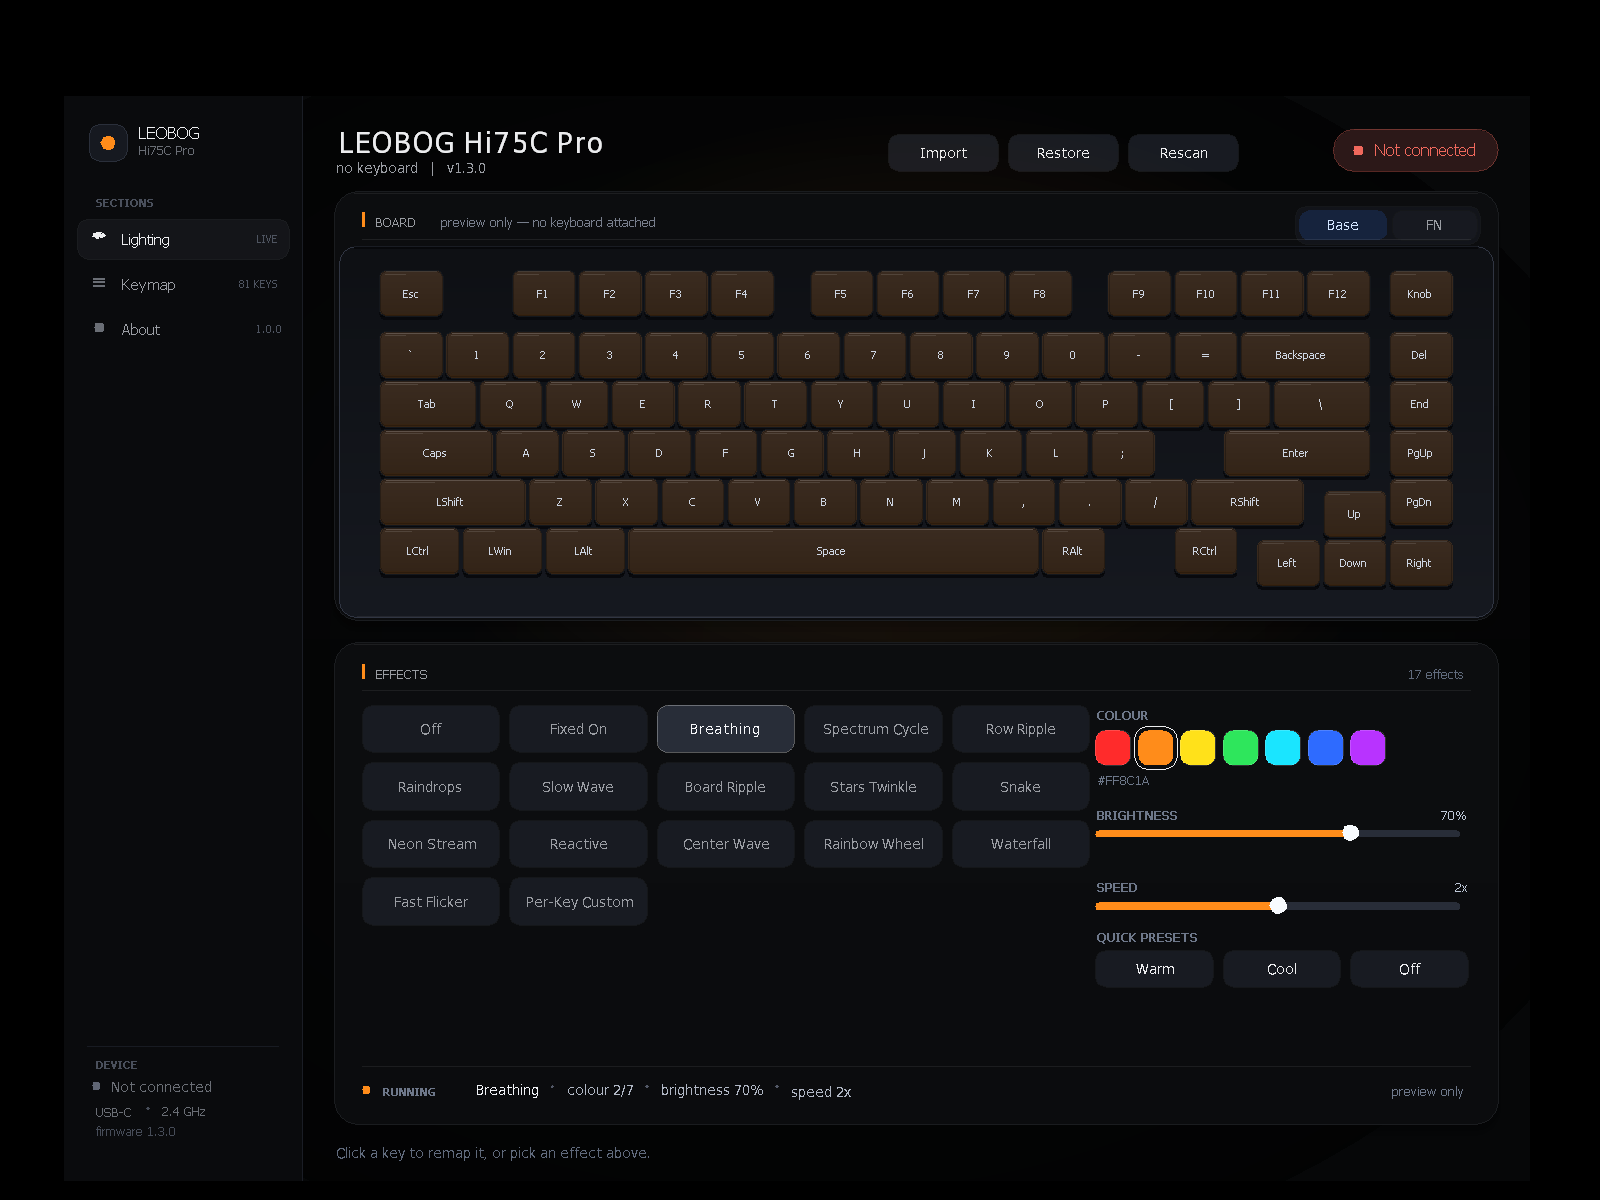
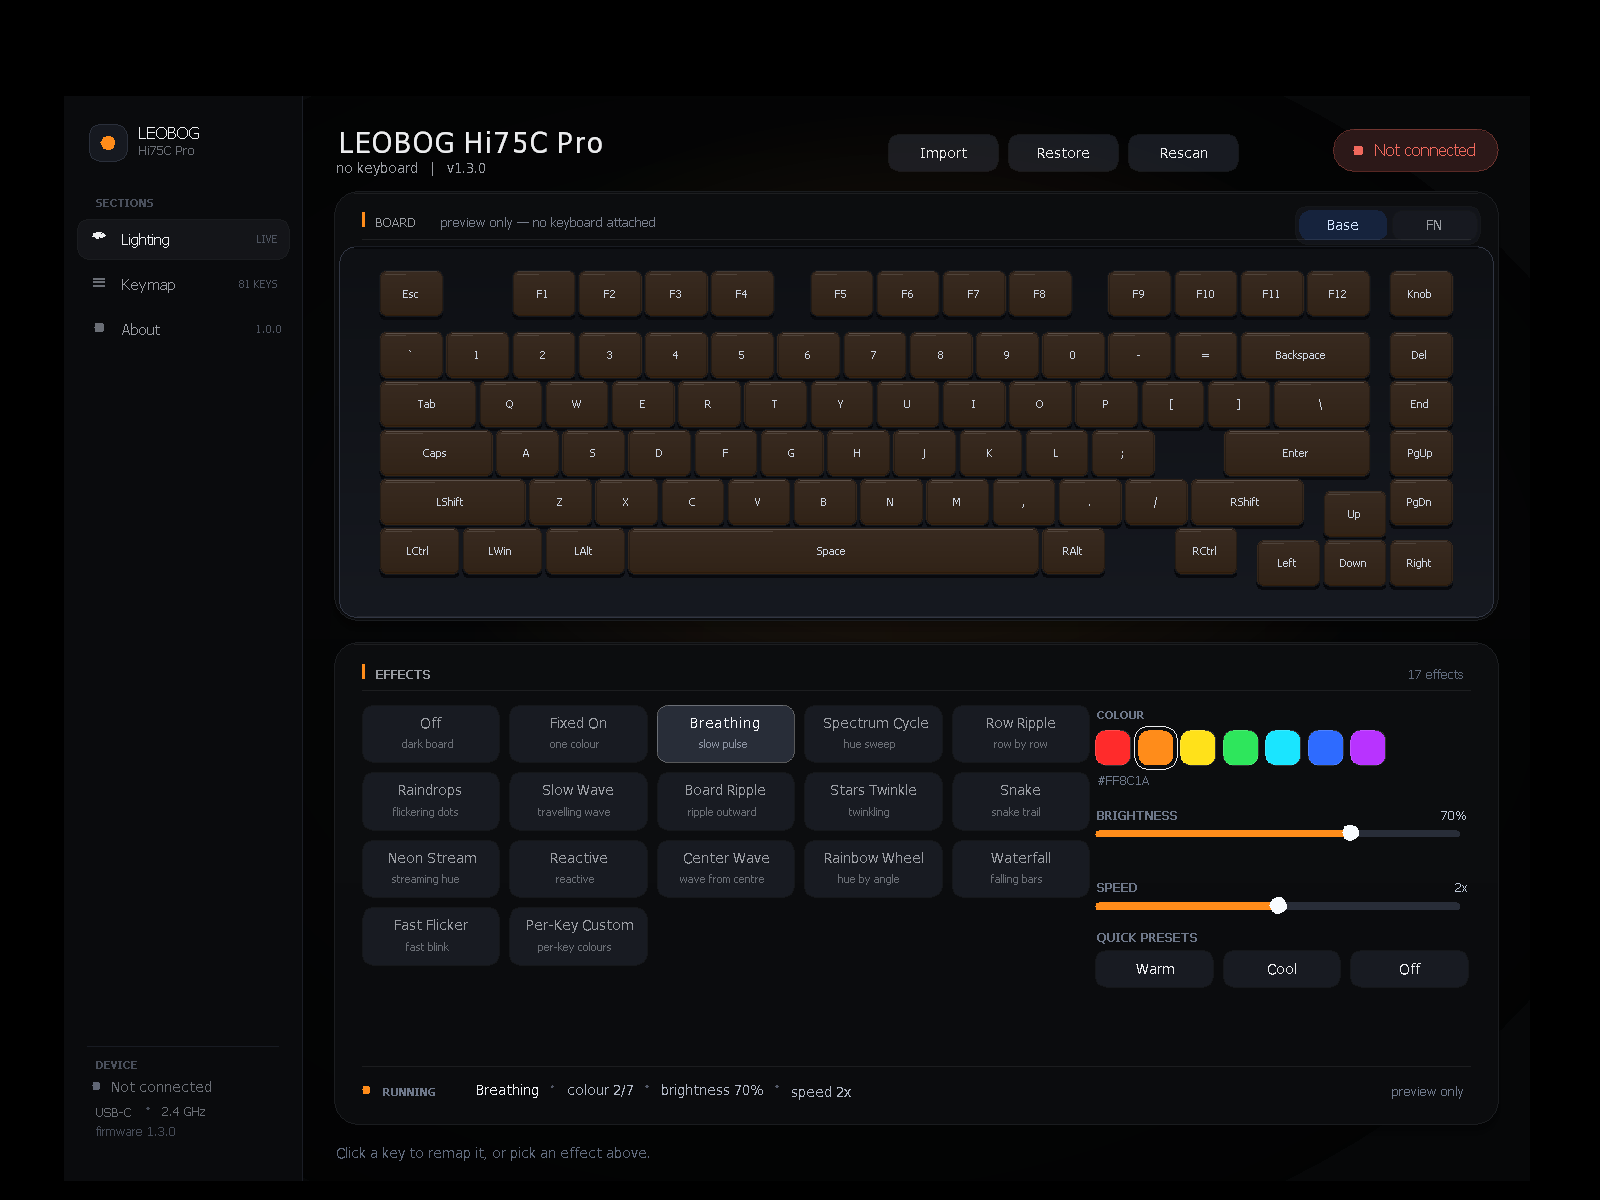
design: two-line effect tiles with descriptors; type ladder

diff --git a/ui_native.cpp b/ui_native.cpp
@@ -275,6 +275,16 @@ static void icon(Graphics *g, int kind, float x, float y, const Color &c) {
 }
 
 /* effect index -> icon */
+static const char *effect_hint(int i) {
+    static const char *h[17] = {
+        "dark board", "one colour", "slow pulse", "hue sweep", "row by row",
+        "flickering dots", "travelling wave", "ripple outward", "twinkling",
+        "snake trail", "streaming hue", "reactive", "wave from centre",
+        "hue by angle", "falling bars", "fast blink", "per-key colours"
+    };
+    return (i >= 0 && i < 17) ? h[i] : "";
+}
+
 static int effect_icon(int i, int hw) {
     switch (hw) {
         case 0: return 0;
@@ -932,7 +942,7 @@ static void paint(HWND hwnd) {
                 SolidBrush bar(accent);
                 g.FillRectangle(&bar, (REAL)(ec.X + 22), ec.Y + 17, 3.0f, 12.0f);
             }
-            text(&g, "EFFECTS", RectF(ec.X + 32, ec.Y + 16, 220, 18), 10.5f, dim,
+            text(&g, "EFFECTS", RectF(ec.X + 32, ec.Y + 16, 220, 18), 9.5f, dim,
                  StringAlignmentNear, NULL, true);
             {
                 char cnt[32];
@@ -949,7 +959,7 @@ static void paint(HWND hwnd) {
             int gridW = (int)ec.Width - ctrlW - 46;
             int cols = 5, gap = 8, rows = (app_effect_count() + cols - 1) / cols;
             int bw = (gridW - gap * (cols - 1)) / cols;
-            int bh = 38;
+            int bh = 46;
             int gx = (int)ec.X + 22, gy = (int)ec.Y + 50;
             int i;
             for (i = 0; i < app_effect_count(); i++) {
@@ -963,9 +973,12 @@ static void paint(HWND hwnd) {
                                                          : Color(255, 24, 27, 34)));
                 stroke_round(&g, btn, 9.0f, active ? Color(80, 255, 255, 255) : lineSoft, 1.0f);
 
-                text(&g, app_effect_name(i), RectF(btn.X + 8, btn.Y, btn.Width - 16, btn.Height),
+                text(&g, app_effect_name(i), RectF(btn.X + 8, btn.Y + 6, btn.Width - 16, 16),
                      11.5f, active ? Color(255, 246, 247, 250) : dim,
                      StringAlignmentCenter, NULL, active);
+                text(&g, effect_hint(i), RectF(btn.X + 8, btn.Y + 24, btn.Width - 16, 14),
+                     9.0f, active ? Color(255, 138, 145, 160) : Color(255, 0x6A, 0x6E, 0x75),
+                     StringAlignmentCenter);
                 add_hot(bx, by, bw, bh, id, app_effect_name(i));
             }
 
@@ -973,7 +986,7 @@ static void paint(HWND hwnd) {
             {
                 int rx = (int)ec.X + (int)ec.Width - ctrlW - 22;
                 int ry = (int)ec.Y + 50;
-                text(&g, "COLOUR", RectF((REAL)rx, (REAL)ry, 120, 16), 9.5f,
+                text(&g, "COLOUR", RectF((REAL)rx, (REAL)ry, 120, 16), 9.0f,
                      Color(255, 110, 120, 138), StringAlignmentNear, NULL, true);
                 {
                     static const char *hex[7] = {"#FF2B2B","#FF8C1A","#FFE11A","#2EE65C","#1AE5FF","#2E6BFF","#B833FF"};
